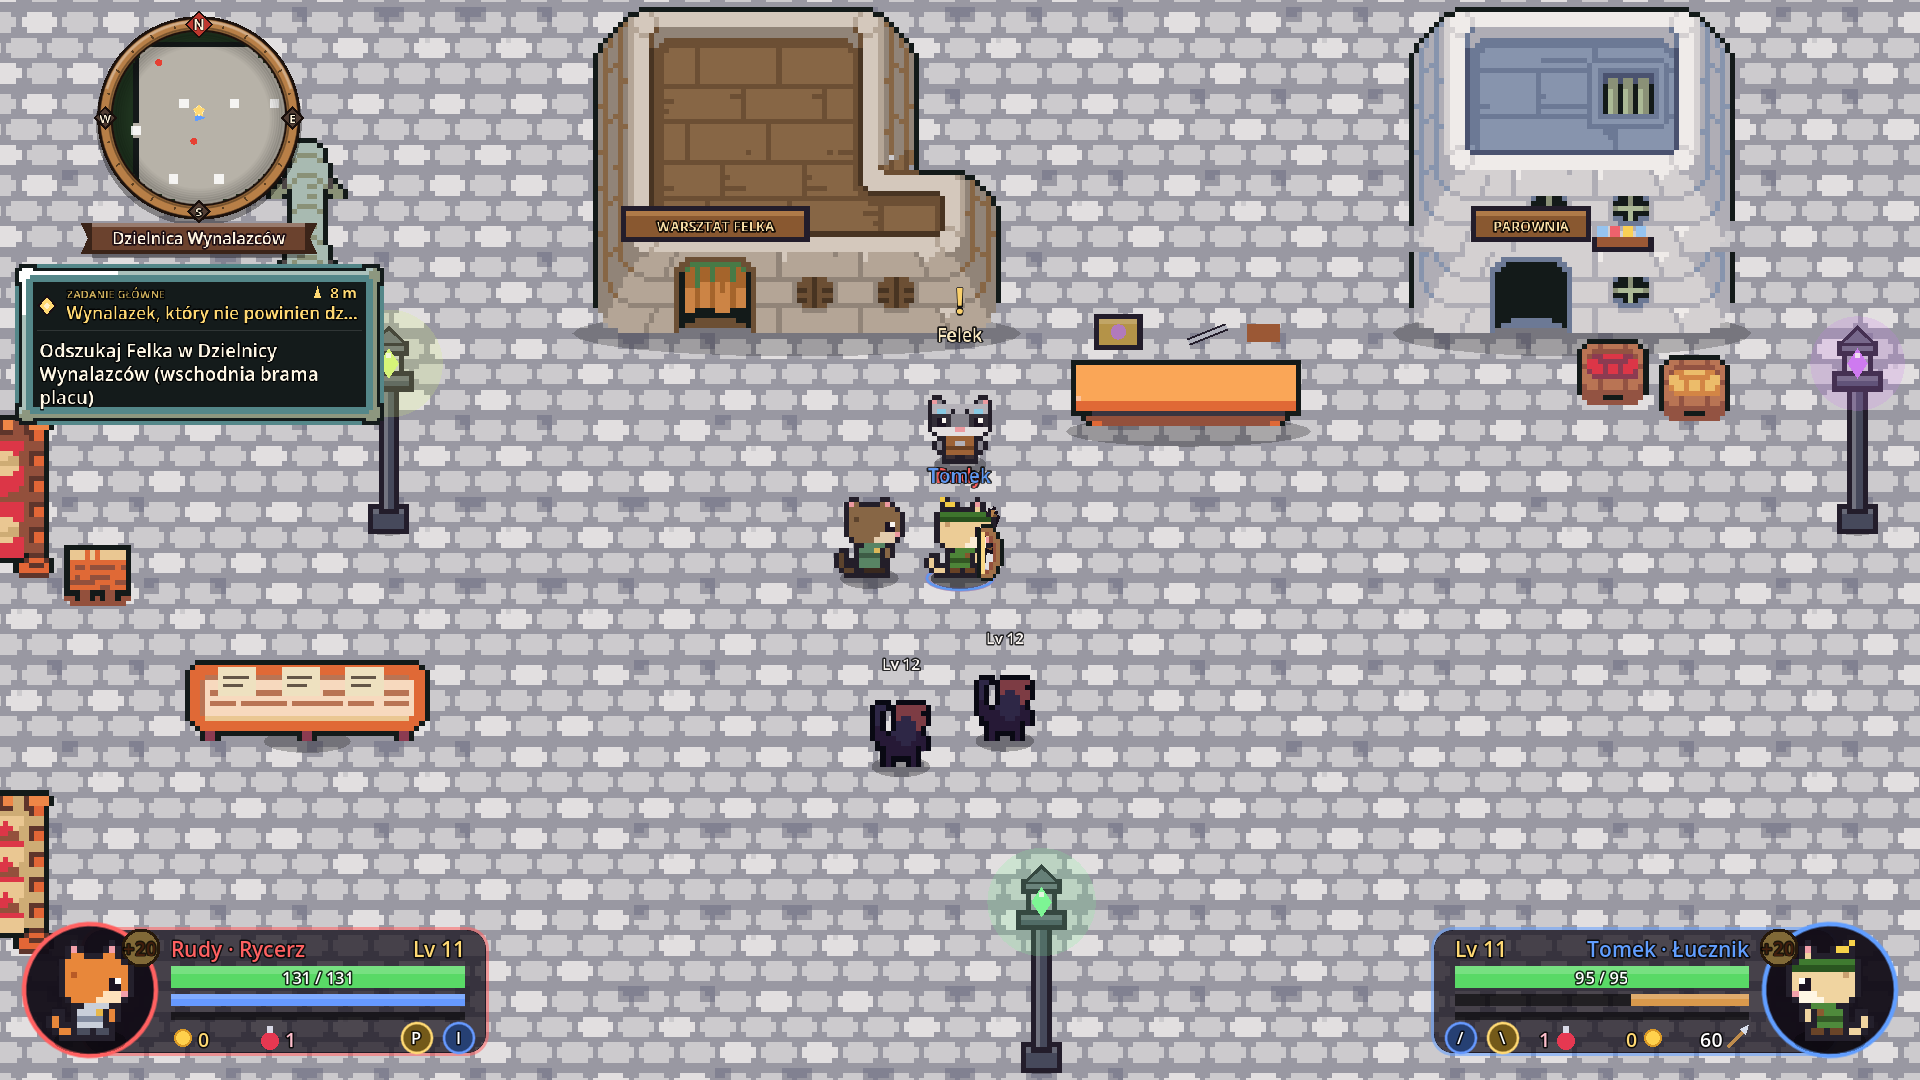
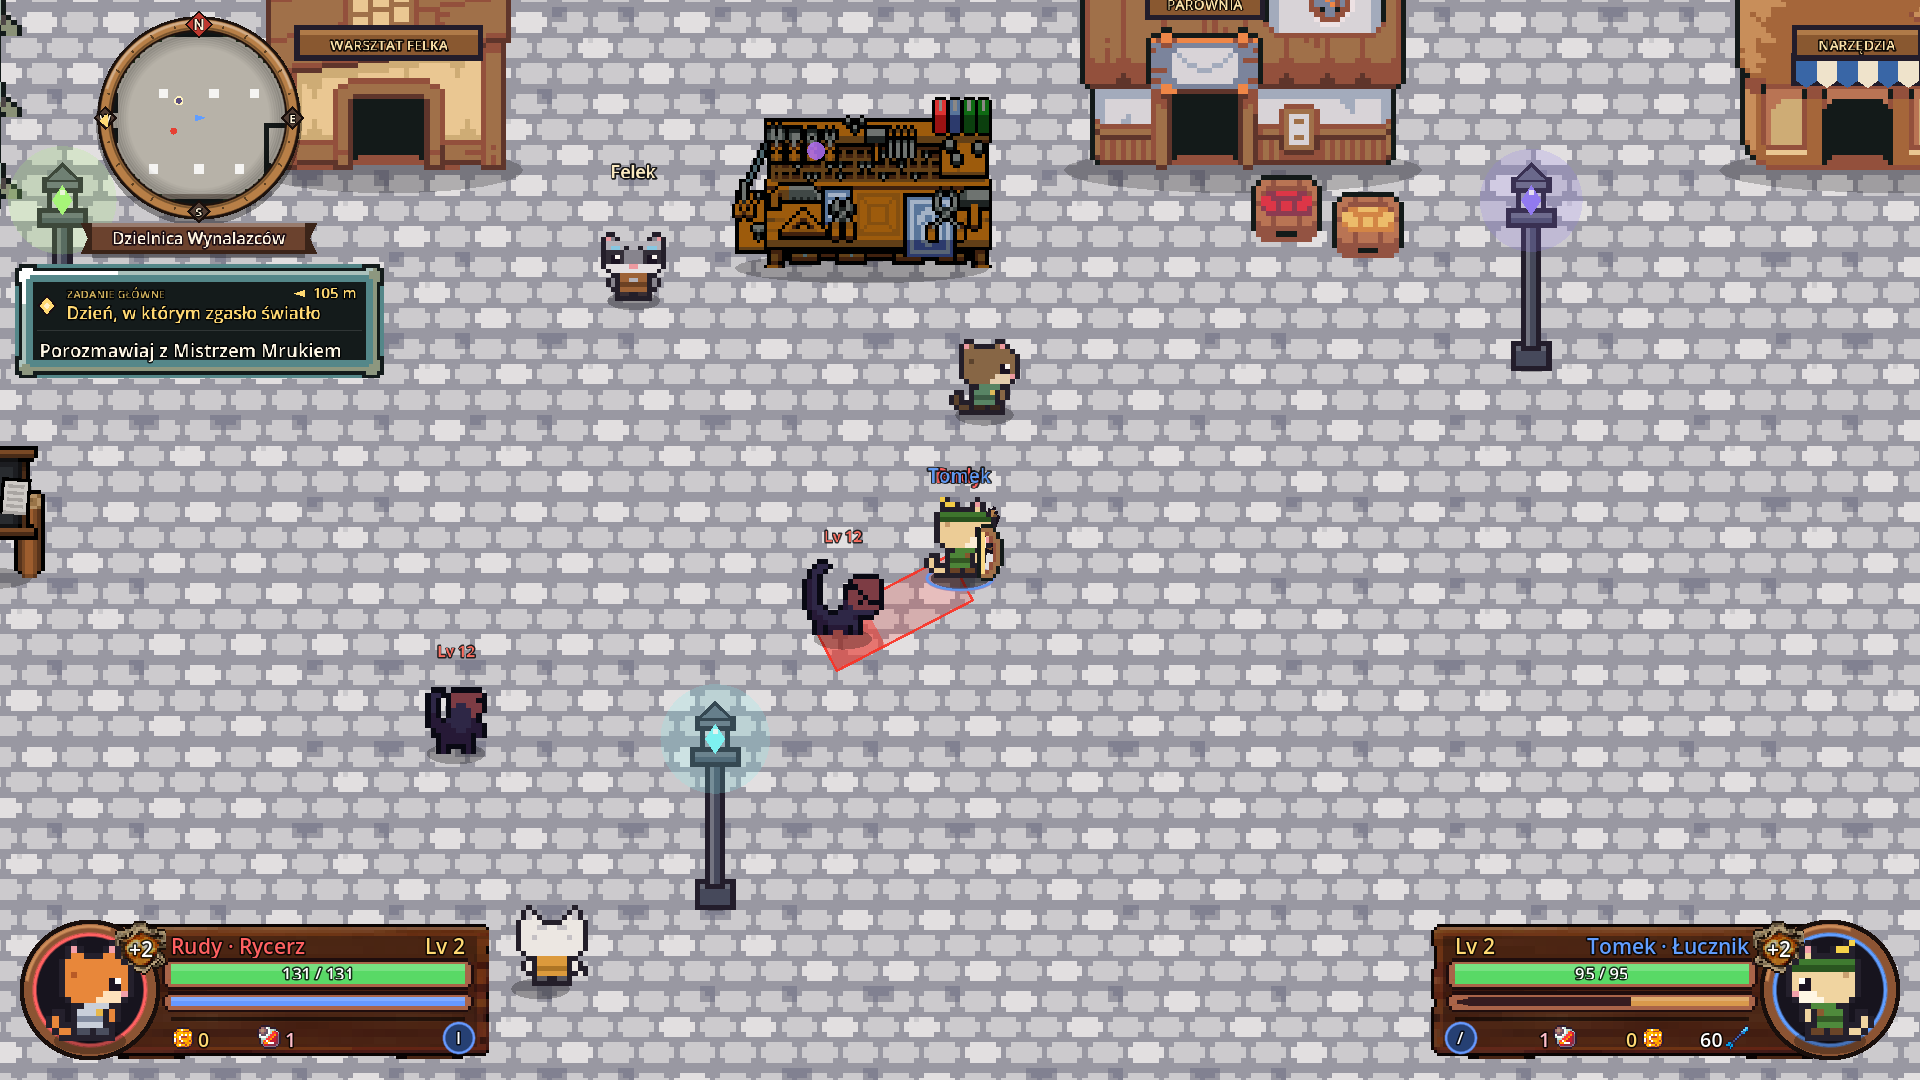
Wersja 0.9.0 – pełna gra (10 rozdziałów), nowe zrzuty ekranu

diff --git a/README.md b/README.md
@@ -2,10 +2,11 @@
 
 <h1 align="center">Warrior Cats – Iskra Pradawnego Serca</h1>
 
-<p align="center"><b>Wersja testowa 0.3.1</b> · Rozdziały 1, 2 i 3 · Windows 10/11 (64-bit)</p>
+<p align="center"><b>Wersja testowa 0.9.0</b> · Pełna gra – 10 rozdziałów · Windows 10/11 (64-bit) · polski i angielski</p>
 
 Gra akcji RPG w stylu Cat Quest: pixel art, walka w czasie rzeczywistym, zadania i sekrety,
 a do tego **lokalna kooperacja dla 1–4 graczy** na padach lub dwóch zestawach klawiszy na jednej klawiaturze.
+Całą grę da się też przejść samemu – każdą klasą.
 
 ## ⬇ Pobierz
 
@@ -13,32 +14,47 @@ Wejdź w **[Releases → najnowsze wydanie](../../releases/latest)** i pobierz j
 
 | Plik | Co to jest |
 |---|---|
-| `WarriorCats-Setup-0.3.1.exe` | **Instalator** (polecany) – instaluje grę, tworzy skrót na pulpicie i w menu Start. Nie wymaga uprawnień administratora. |
-| `WarriorCats-0.3.1-bez-instalacji.zip` | Wersja bez instalacji – rozpakuj i uruchom `WarriorCats.exe`. |
+| `WarriorCats-Setup-0.9.0.exe` | **Instalator** (polecany) – instaluje grę, tworzy skrót na pulpicie i w menu Start. Nie wymaga uprawnień administratora. Można instalować na starszą wersję – zapisy postaci zostają. |
+| `WarriorCats-0.9.0-bez-instalacji.zip` | Wersja bez instalacji – rozpakuj i uruchom `WarriorCats.exe`. |
 
 > **Windows może ostrzec** („System Windows ochronił ten komputer”), bo gra nie ma płatnego podpisu cyfrowego.
 > Kliknij **Więcej informacji → Uruchom mimo to**.
 
 ## 🐾 O grze
 
-Rudy wyrusza ratować swój świat, w którym gasną pradawne kryształy:
+Rudy wyrusza ratować swój świat, w którym gasną pradawne kryształy – a po drodze odkrywa, kto i dlaczego
+próbował połączyć sześć świateł świata w jedno.
 
-- **Rozdział 1: Iskra Pradawnego Serca** – wioska Brzozowy Kieł, Szepczący Las i Ruiny Srebrnej Kapliczki.
-- **Rozdział 2: Cień nad Srebrnym Brodem** – Droga nad Srebrny Bród, osada nad rzeką, Mokradła Milczącej Wody,
-  Stara Tama z podziemnymi zagadkami i Serce Tamy.
-- **Rozdział 3: Miasto, Które Zgubiło Cień** – Lśniący Gród, Dzielnica Wynalazców, Archiwum Miejskie,
-  Wieża Bez Cienia i Podziemne Archiwum z Lustrem Duszy. Nowe narzędzie: Luminometr.
+1. **Iskra Pradawnego Serca** – wioska Brzozowy Kieł, Szepczący Las i Ruiny Srebrnej Kapliczki.
+2. **Cień nad Srebrnym Brodem** – osada nad rzeką, Mokradła Milczącej Wody i Stara Tama z zagadkami.
+3. **Miasto, Które Zgubiło Cień** – Lśniący Gród, Dzielnica Wynalazców, Wieża Bez Cienia. Nowe narzędzie: Luminometr.
+4. **Królestwo Pod Lodowym Słońcem** – Biały Próg, kopalnia i lodowiec, gdzie czas stanął w miejscu. Nowa moc: Puls Czasu.
+5. **Miejsce, Którego Nie Ma na Mapie** – dolina i osada, o których wszyscy zapomnieli.
+6. **Ogród, Który Zapomniał Rosnąć** – Zielony Szept, Sad Wiecznego Lata i Las Niedokończonej Jesieni.
+7. **Miasto pod Drugim Niebem** – podziemne miasto pod sztucznym niebem.
+8. **Imię Ukryte pod Maską** – Przełęcz Zapomnianych Drogowskazów i Opuszczony Ośrodek Pamięci.
+9. **Kiedy Świat Woła o Pomoc** – powroty do wszystkich krain i Węzeł Zerwanej Sieci.
+10. **Iskra Pradawnego Serca** – wielki finał pod Ruinami Srebrnej Kapliczki.
 
-Cztery klasy (Rycerz, Łucznik, Mag, Uzdrowicielka), rozwój postaci punktami cech, ekwipunek z siedmioma miejscami (z ozdobą)
-i przedmiotami zwykłymi, rzadkimi i legendarnymi, bossowie, sekrety, Dziennik zadań i zapis postępu każdej postaci.
-Do domów w osadach można wchodzić (i zaglądać do skrzynek), a w jaskiniach czekają 3 fale wrogów i skrzynia z rzadkim łupem.
+**W grze:** cztery klasy (Rycerz, Łucznik, Mag, Uzdrowicielka), rozwój postaci punktami cech, ekwipunek z przedmiotami
+zwykłymi, rzadkimi i legendarnymi, bossowie z fazami i słabymi punktami, zadania poboczne z nagrodami, sekrety,
+domy, do których można wejść, jaskinie z falami wrogów, Dziennik zadań i wybór tematu rozmowy.
+
+**Nowe w 0.9.0:**
+- rozdziały 4–10 i zakończenie gry,
+- poziom trudności (Łatwy / Normalny / Trudny),
+- autozapis i powrót do ostatniego zapisu po porażce drużyny,
+- „Utknąłem” w menu pauzy,
+- nowy balans klas pod grę w pojedynkę,
+- przy kilku graczach w rozmowie widać portrety całej drużyny.
 
 <p align="center">
   <img src="screenshots/menu.png" width="49%"> <img src="screenshots/osada.png" width="49%">
-  <img src="screenshots/boss.png" width="49%"> <img src="screenshots/zagadka.png" width="49%">
-  <img src="screenshots/dziennik.png" width="49%"> <img src="screenshots/miasto.png" width="49%">
-  <img src="screenshots/dzielnica.png" width="49%"> <img src="screenshots/wieza.png" width="49%">
-  <img src="screenshots/noc.png" width="49%">
+  <img src="screenshots/miasto.png" width="49%"> <img src="screenshots/dzielnica.png" width="49%">
+  <img src="screenshots/mroz.png" width="49%"> <img src="screenshots/przelecz.png" width="49%">
+  <img src="screenshots/korytarz.png" width="49%"> <img src="screenshots/boss.png" width="49%">
+  <img src="screenshots/zagadka.png" width="49%"> <img src="screenshots/dziennik.png" width="49%">
+  <img src="screenshots/wieza.png" width="49%"> <img src="screenshots/noc.png" width="49%">
 </p>
 
 ## 🎮 Sterowanie (domyślne – można zmienić w grze)
@@ -47,13 +63,14 @@ Do domów w osadach można wchodzić (i zaglądać do skrzynek), a w jaskiniach 
 |---|---|---|---|
 | Ruch / celowanie | gałka | WASD | strzałki |
 | Atak | A | J | , |
-| Unik | B | K | . |
+| Unik (Iskrowy Skok) | B | K | . |
 | Umiejętność klasy | X | I | / |
 | Strzał / kula ognia | RT | U | ' |
 | Akcja / rozmowa | Y | L | ; |
 | Mikstura leczenia | LB | O | [ |
 | Błysk Iskry | RB | P | \ |
 | Luminometr (przytrzymaj: Cienisty Zmysł) | R3 | E | = |
+| Puls Czasu | L3 | Q | 0 |
 | Ekwipunek | View | Tab | ] |
 | Dziennik (zadania, postać) | LT | M | - |
 | Pauza / zapis | Start | Esc | Esc |
@@ -66,5 +83,8 @@ To wersja testowa. Jeśli coś nie działa, opisz, **gdzie** to było i **co** s
 
 ---
 
-Grafika, muzyka i dźwięki: [Ninja Adventure – Asset Pack](https://pixel-boy.itch.io/ninja-adventure-asset-pack) (CC0).
+Grafika, muzyka i dźwięki: [Ninja Adventure – Asset Pack](https://pixel-boy.itch.io/ninja-adventure-asset-pack) (CC0),
+[Pixel Crawler](https://anokolisa.itch.io) (Anokolisa), [Tiny RPG Character Asset Pack](https://zerie.itch.io/tiny-rpg-character-asset-pack) (Zerie),
+[Raven Fantasy Icons](https://clockworkraven.itch.io) (Clockwork Raven Studios), [Farm RPG](https://emanuelledev.itch.io/farm-rpg) (Emanuelle)
+i inne – pełna lista w grze (menu „Twórcy”) i w pliku `Licencje.txt`.
 Silnik: [Godot Engine](https://godotengine.org) (MIT).
